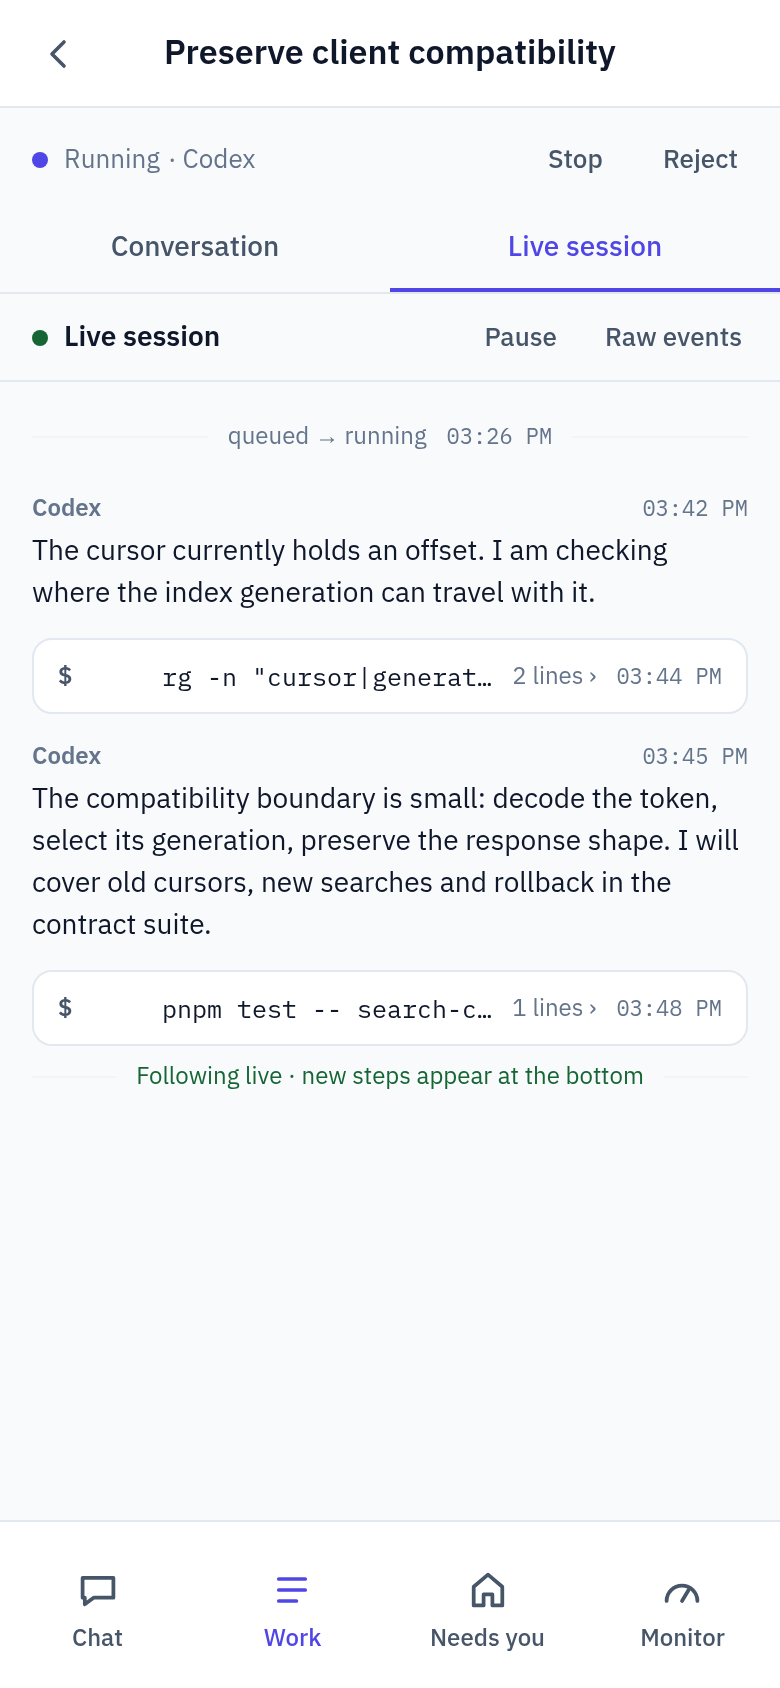
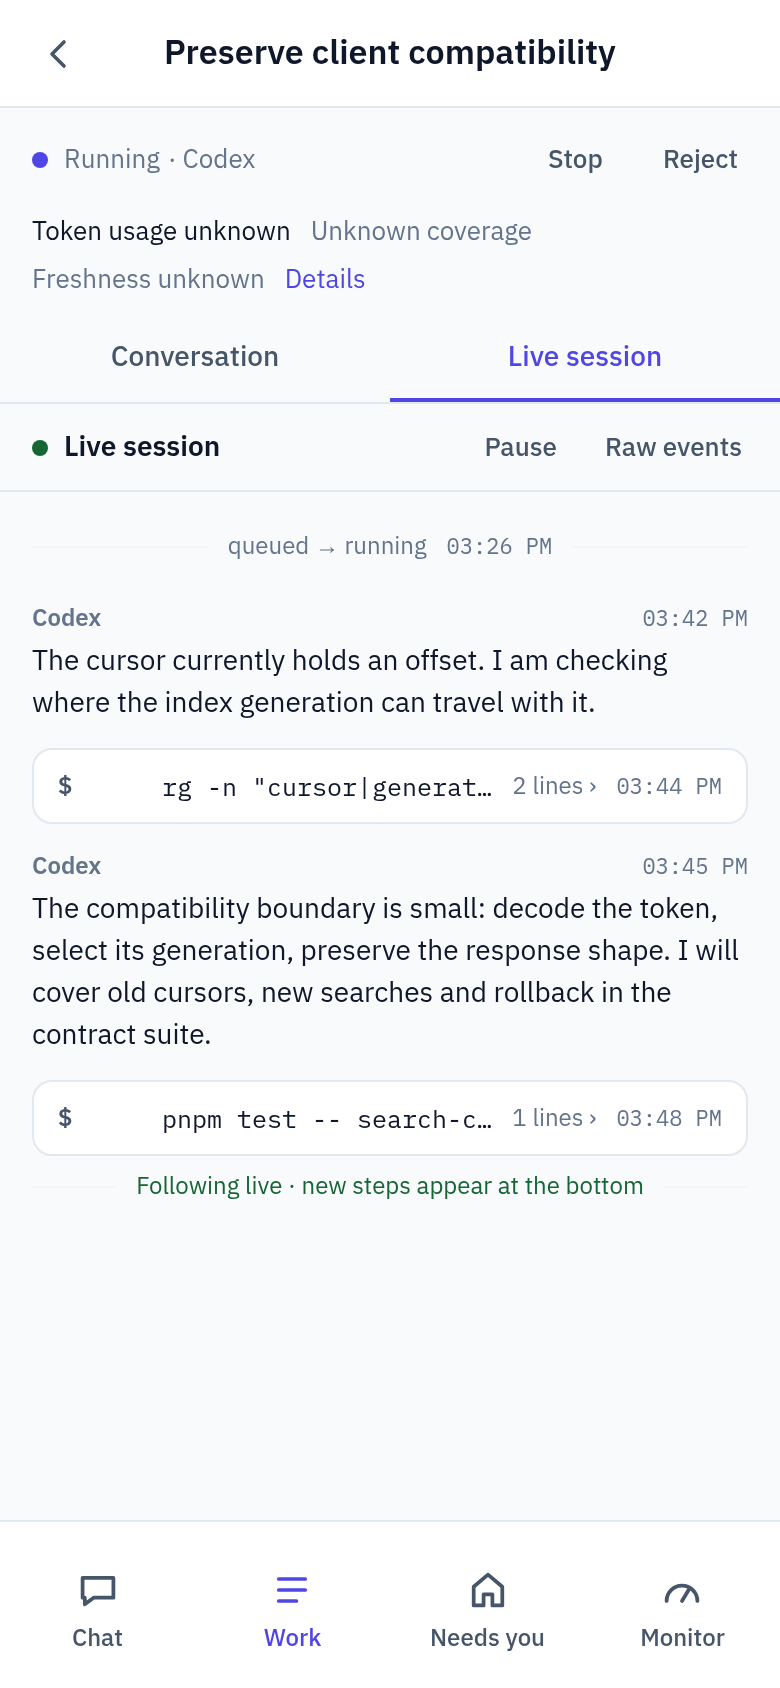
Refresh product captures against current main
Altitude-Task: altitude/rework-product-positioning-and-visuals-a

diff --git a/design/readme/README.md b/design/readme/README.md
@@ -50,6 +50,7 @@ conversation excerpt beginning at a complete message. Quota numbers are illustra
   sanitized Markdown, image paths and anchors, then inspect both widths. Open the original images
   to review details that are small in a desktop README column.
 
-These captures describe the UI at `ddbad55` (merged #232). The richer decision page is approved
+These captures describe the UI at `8562ca1` (merged through #238). Task token readings are absent
+from this fixture, so the app shows its unknown state. The richer decision page is approved
 design but remains unmerged at this capture baseline. The current More context link opens the
 task; Resume/Reject are lifecycle actions. No proposed UI is passed off as a screenshot.

diff --git a/README.md b/README.md
@@ -70,7 +70,6 @@ current hold and unchanged PR before recording the release. The owner then reche
 - **Selective attention.** Needs you collects escalated questions across projects. L3 handles
   questions the record settles and receives faults for recovery. Monitor shows engine routing,
   usage windows and observed sessions, including missing or stale readings.
-
 - **Task tokens.** Follow cumulative locally observed input/output tokens, expand engine and
   owner/helper breakdowns, and retain the final observation with the archived task.
 
